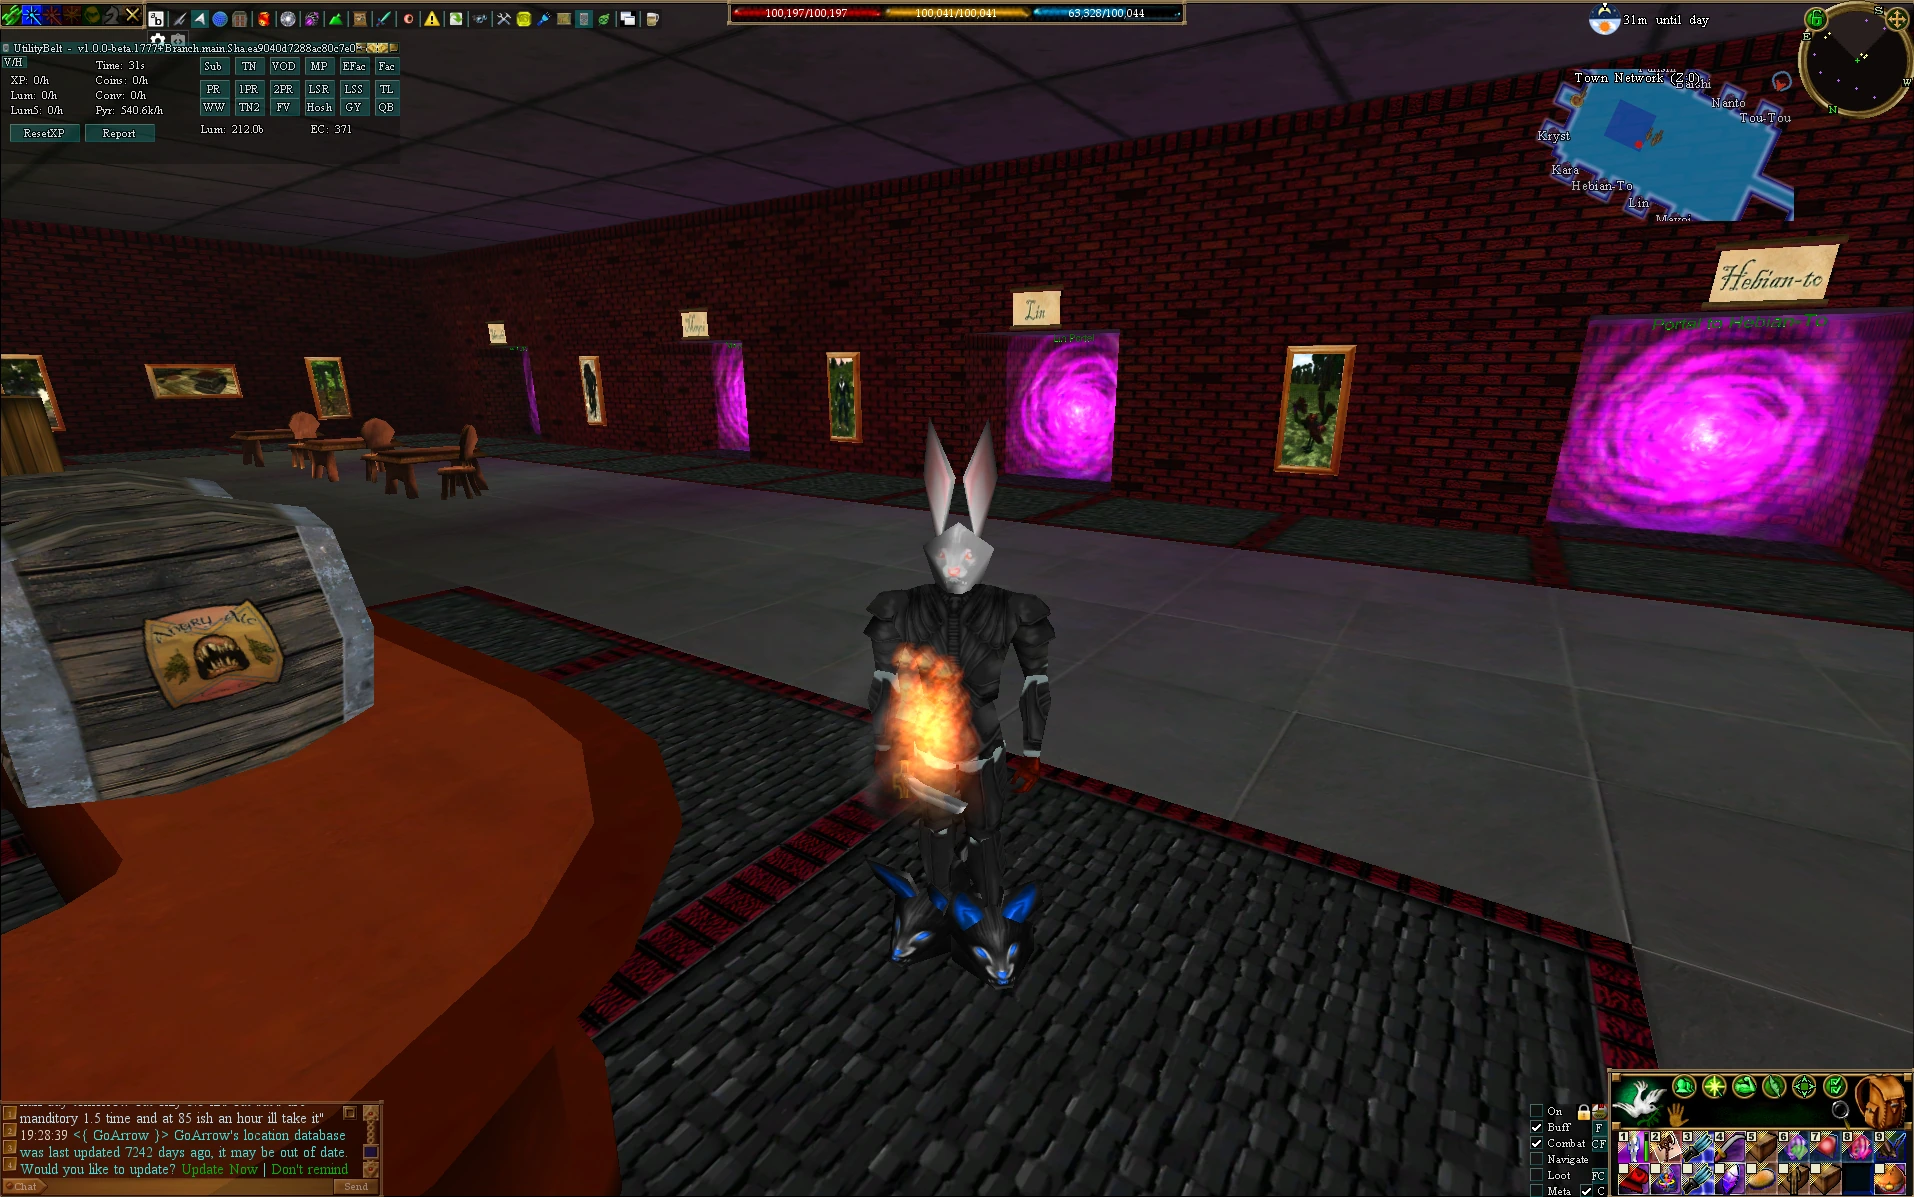
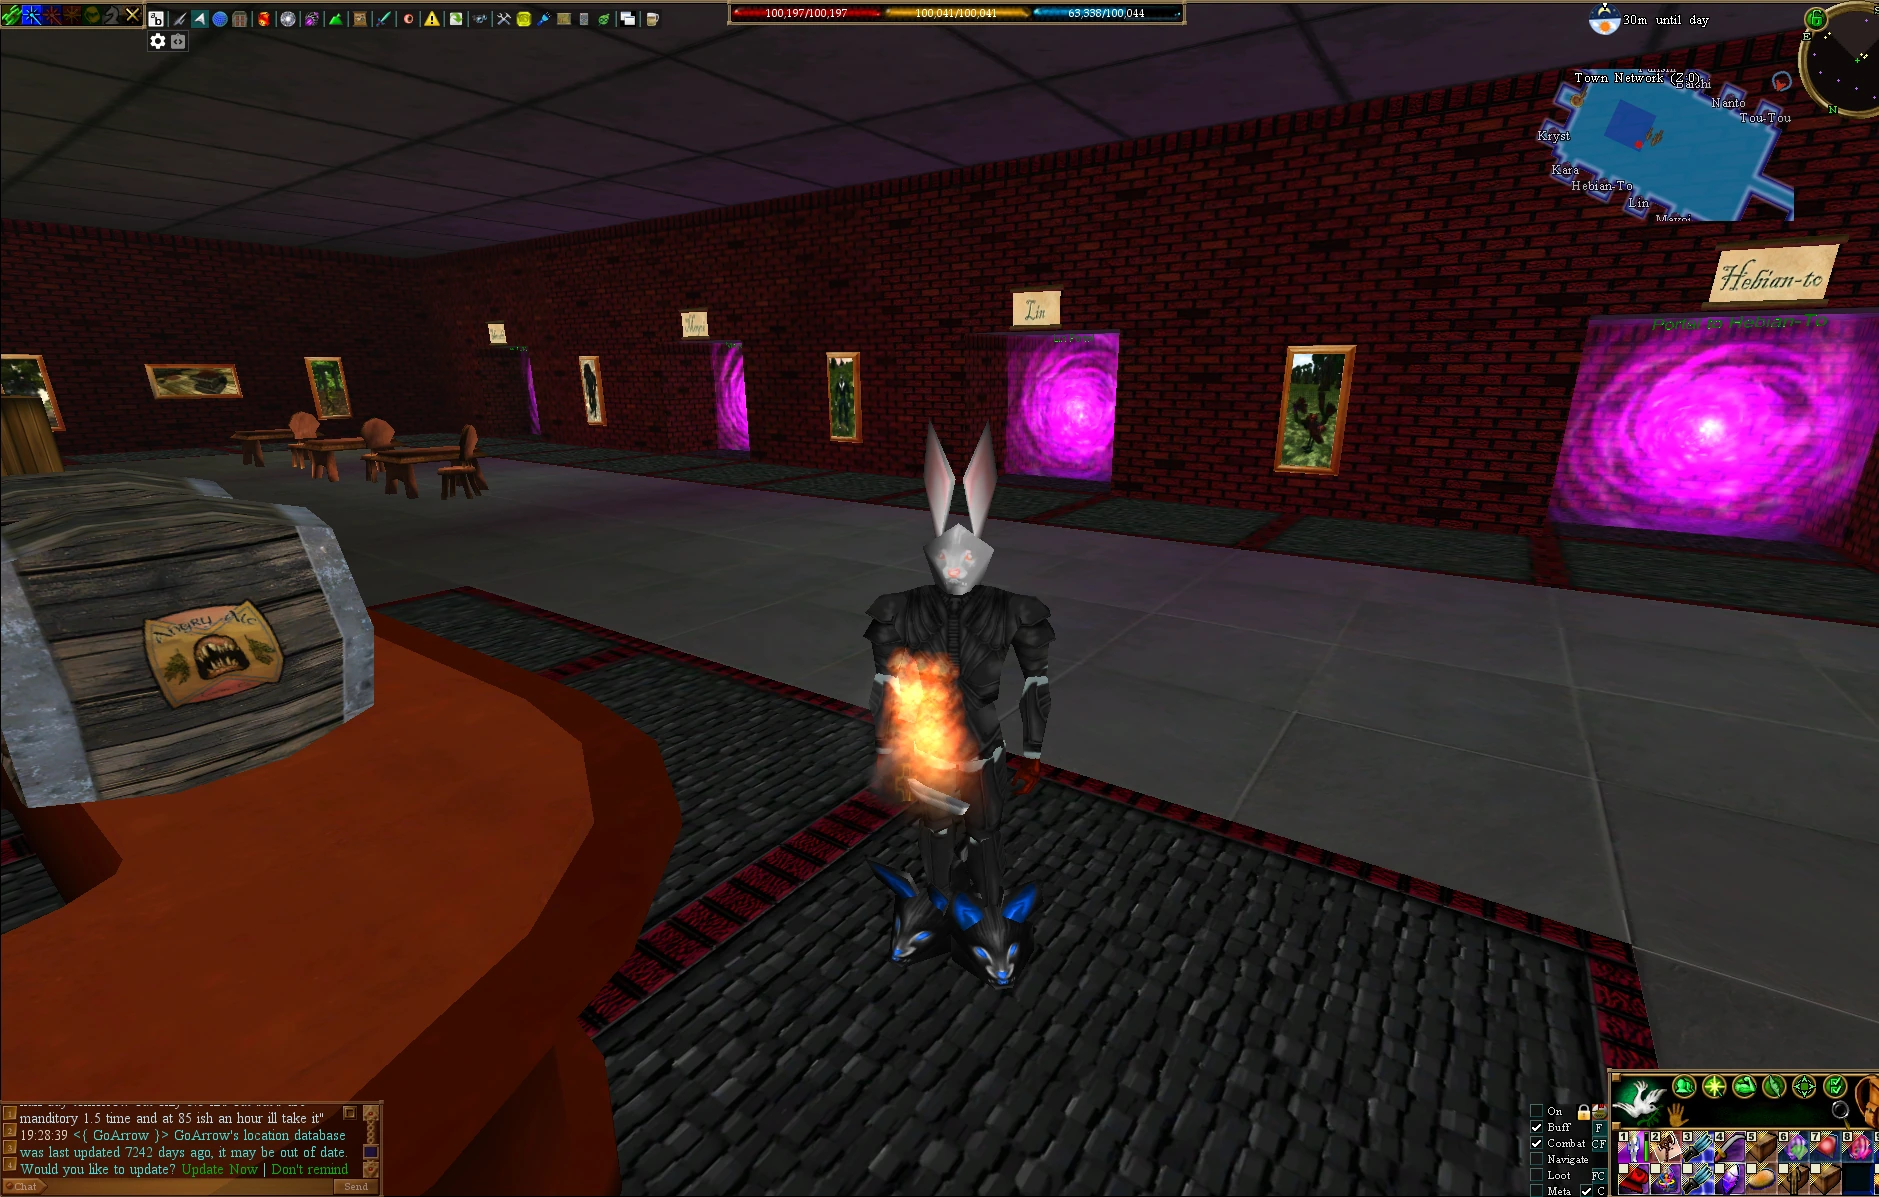
Town Network: clean retake without plugin windows, aligned wipe

diff --git a/docs/index.html b/docs/index.html
@@ -190,8 +190,8 @@ footer a { color: var(--muted) }
         <p>Everyone passes through here. The barrel's "Angry Ale" label, the portal swirls, the brick and the cobblestones all sharpen, and so does your own armor.</p>
         <div class="frame">
           <div class="shot" data-start="50">
-            <img src="img/ingame_townnet_after.webp" alt="Town Network with AC-HD" width="1914" height="1197" loading="lazy">
-            <img class="top-img" src="img/ingame_townnet_before.webp" alt="Town Network, original textures" width="1914" height="1197" loading="lazy">
+            <img src="img/ingame_townnet_after.webp" alt="Town Network with AC-HD" width="1879" height="1197" loading="lazy">
+            <img class="top-img" src="img/ingame_townnet_before.webp" alt="Town Network, original textures" width="1879" height="1197" loading="lazy">
             <div class="handle"></div><span class="tag l">Original</span><span class="tag r">AC-HD</span>
           </div>
         </div>
